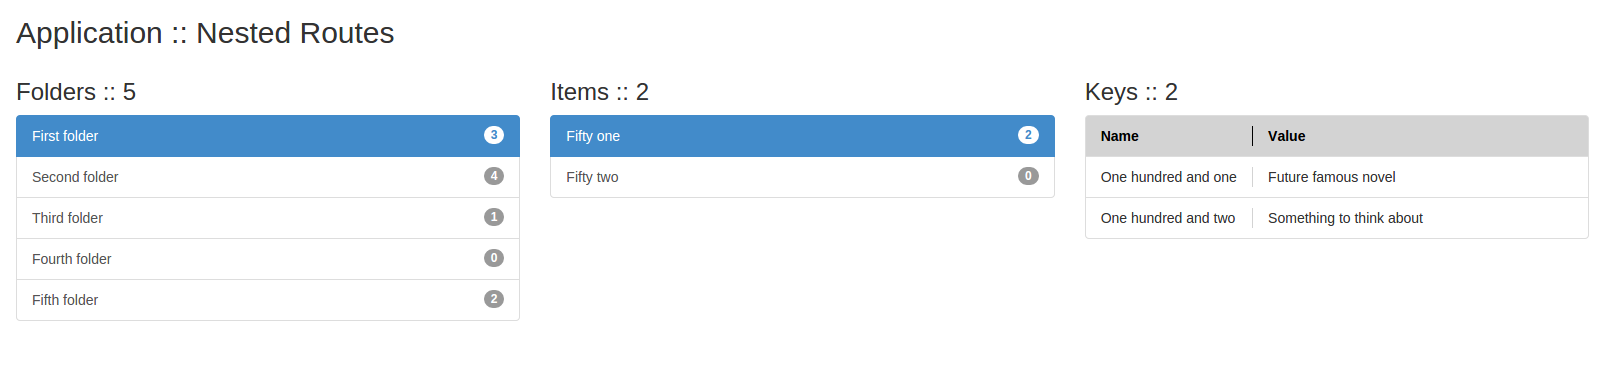
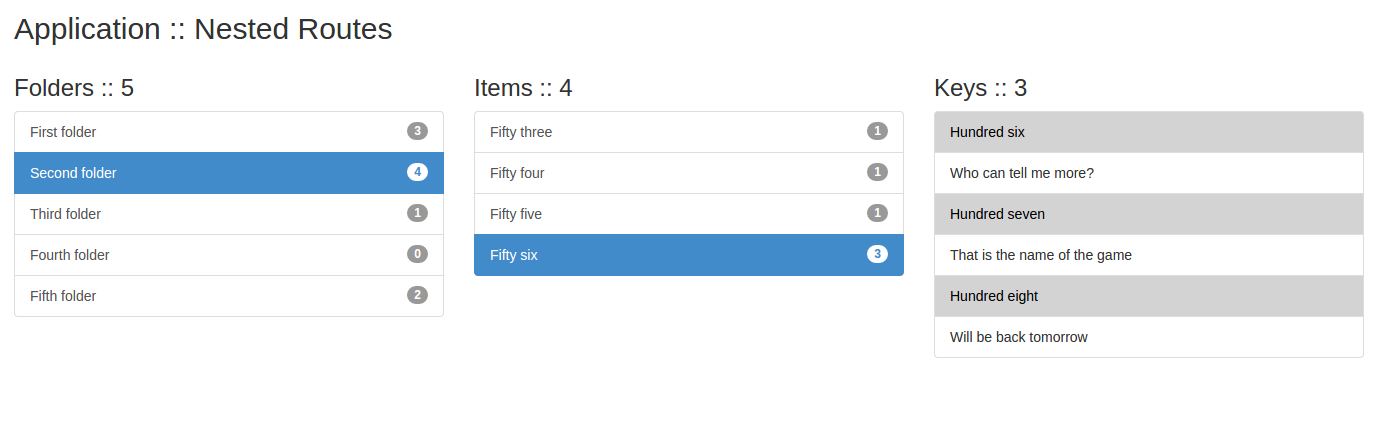
Alternating name and value rows and new screenshot.

Changed region(s): [[0.0, 0.1851, 0.9993, 0.8329], [0.0, 0.0308, 0.281, 0.1234], [0.0, 0.6478, 0.0937, 0.8021]]

diff --git a/index.html b/index.html
@@ -61,18 +61,12 @@
         <h3>Keys :: {{length}}</h3>
         <div class="list-group">
           {{#if length}}
-            <li class="list-group-item keys-header">
-              <div class="row">
-                <div class="col-md-4 right-border"><strong>Name</strong></div>
-                <div class="col-md-6"><strong>Value</strong></div>
-              </div>
-            </li>
             {{#each}}
+              <li class="list-group-item keys-header">
+                {{name}}
+              </li>
               <li class="list-group-item">
-                <div class="row">
-                  <div class="col-md-4 right-border">{{name}}</div>
-                  <div class="col-md-6">{{value}}</div>
-                </div>
+                {{value}}
               </li>
             {{/each}}
           {{else}}
